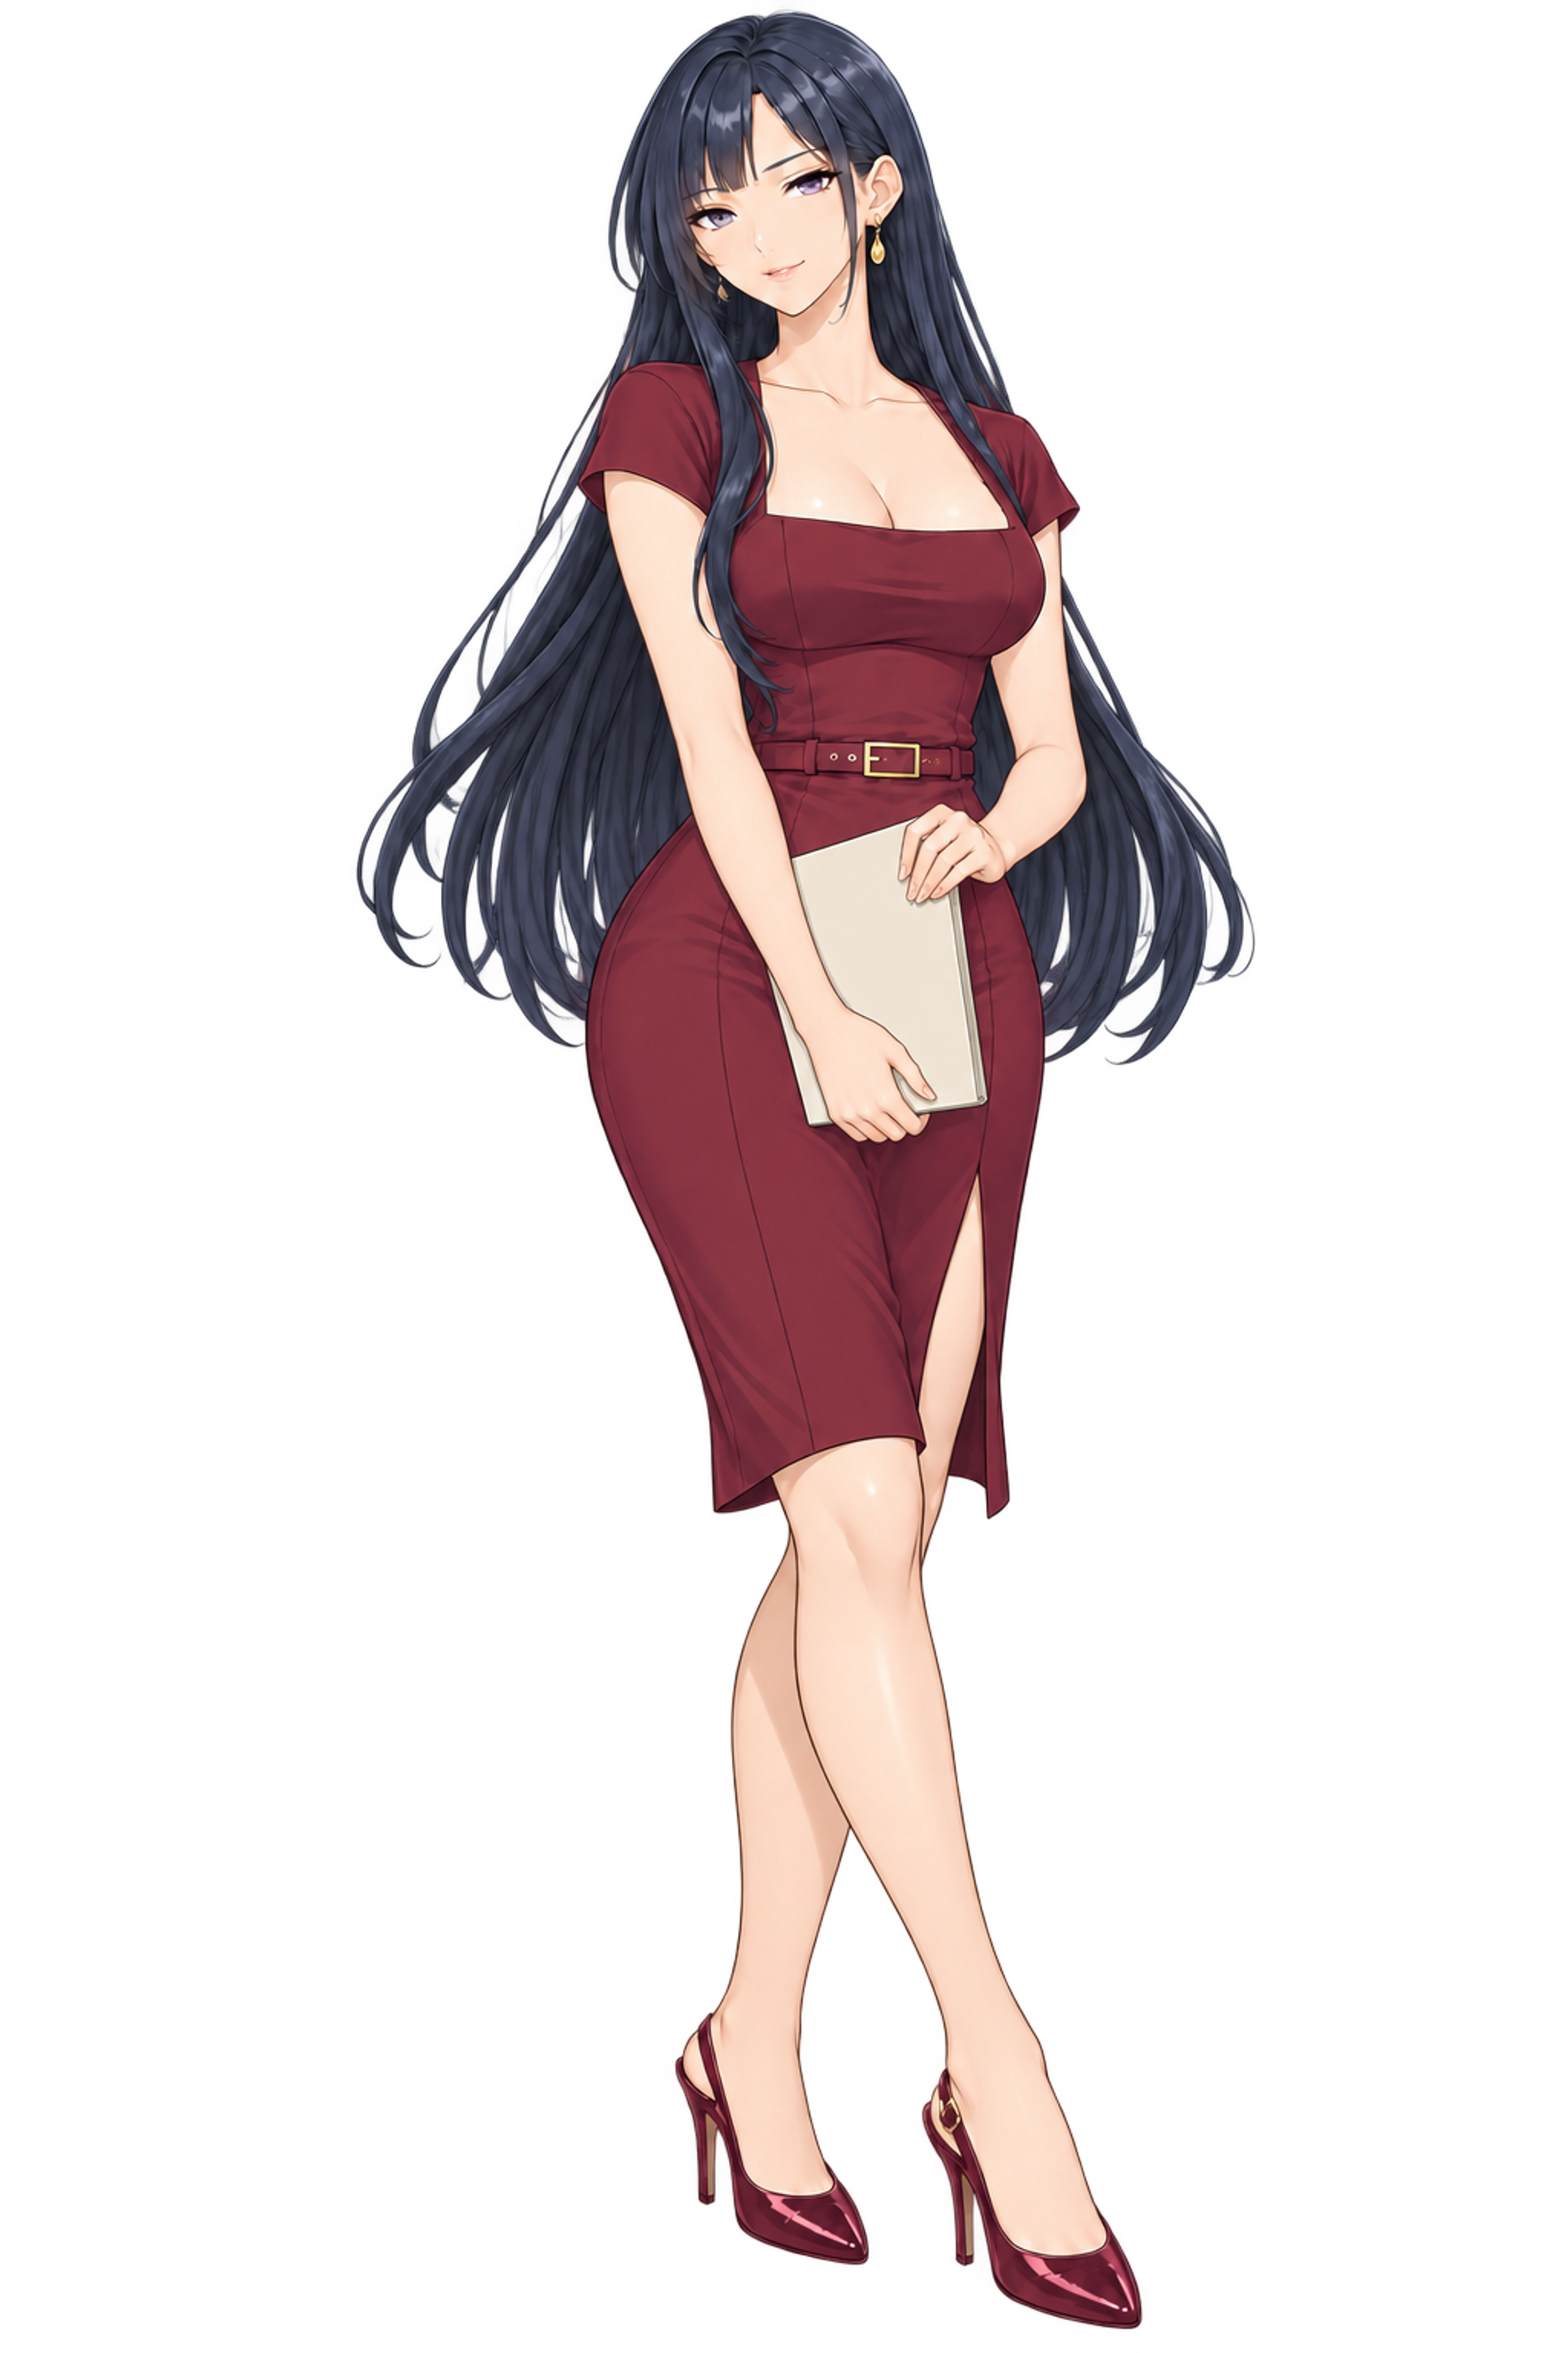
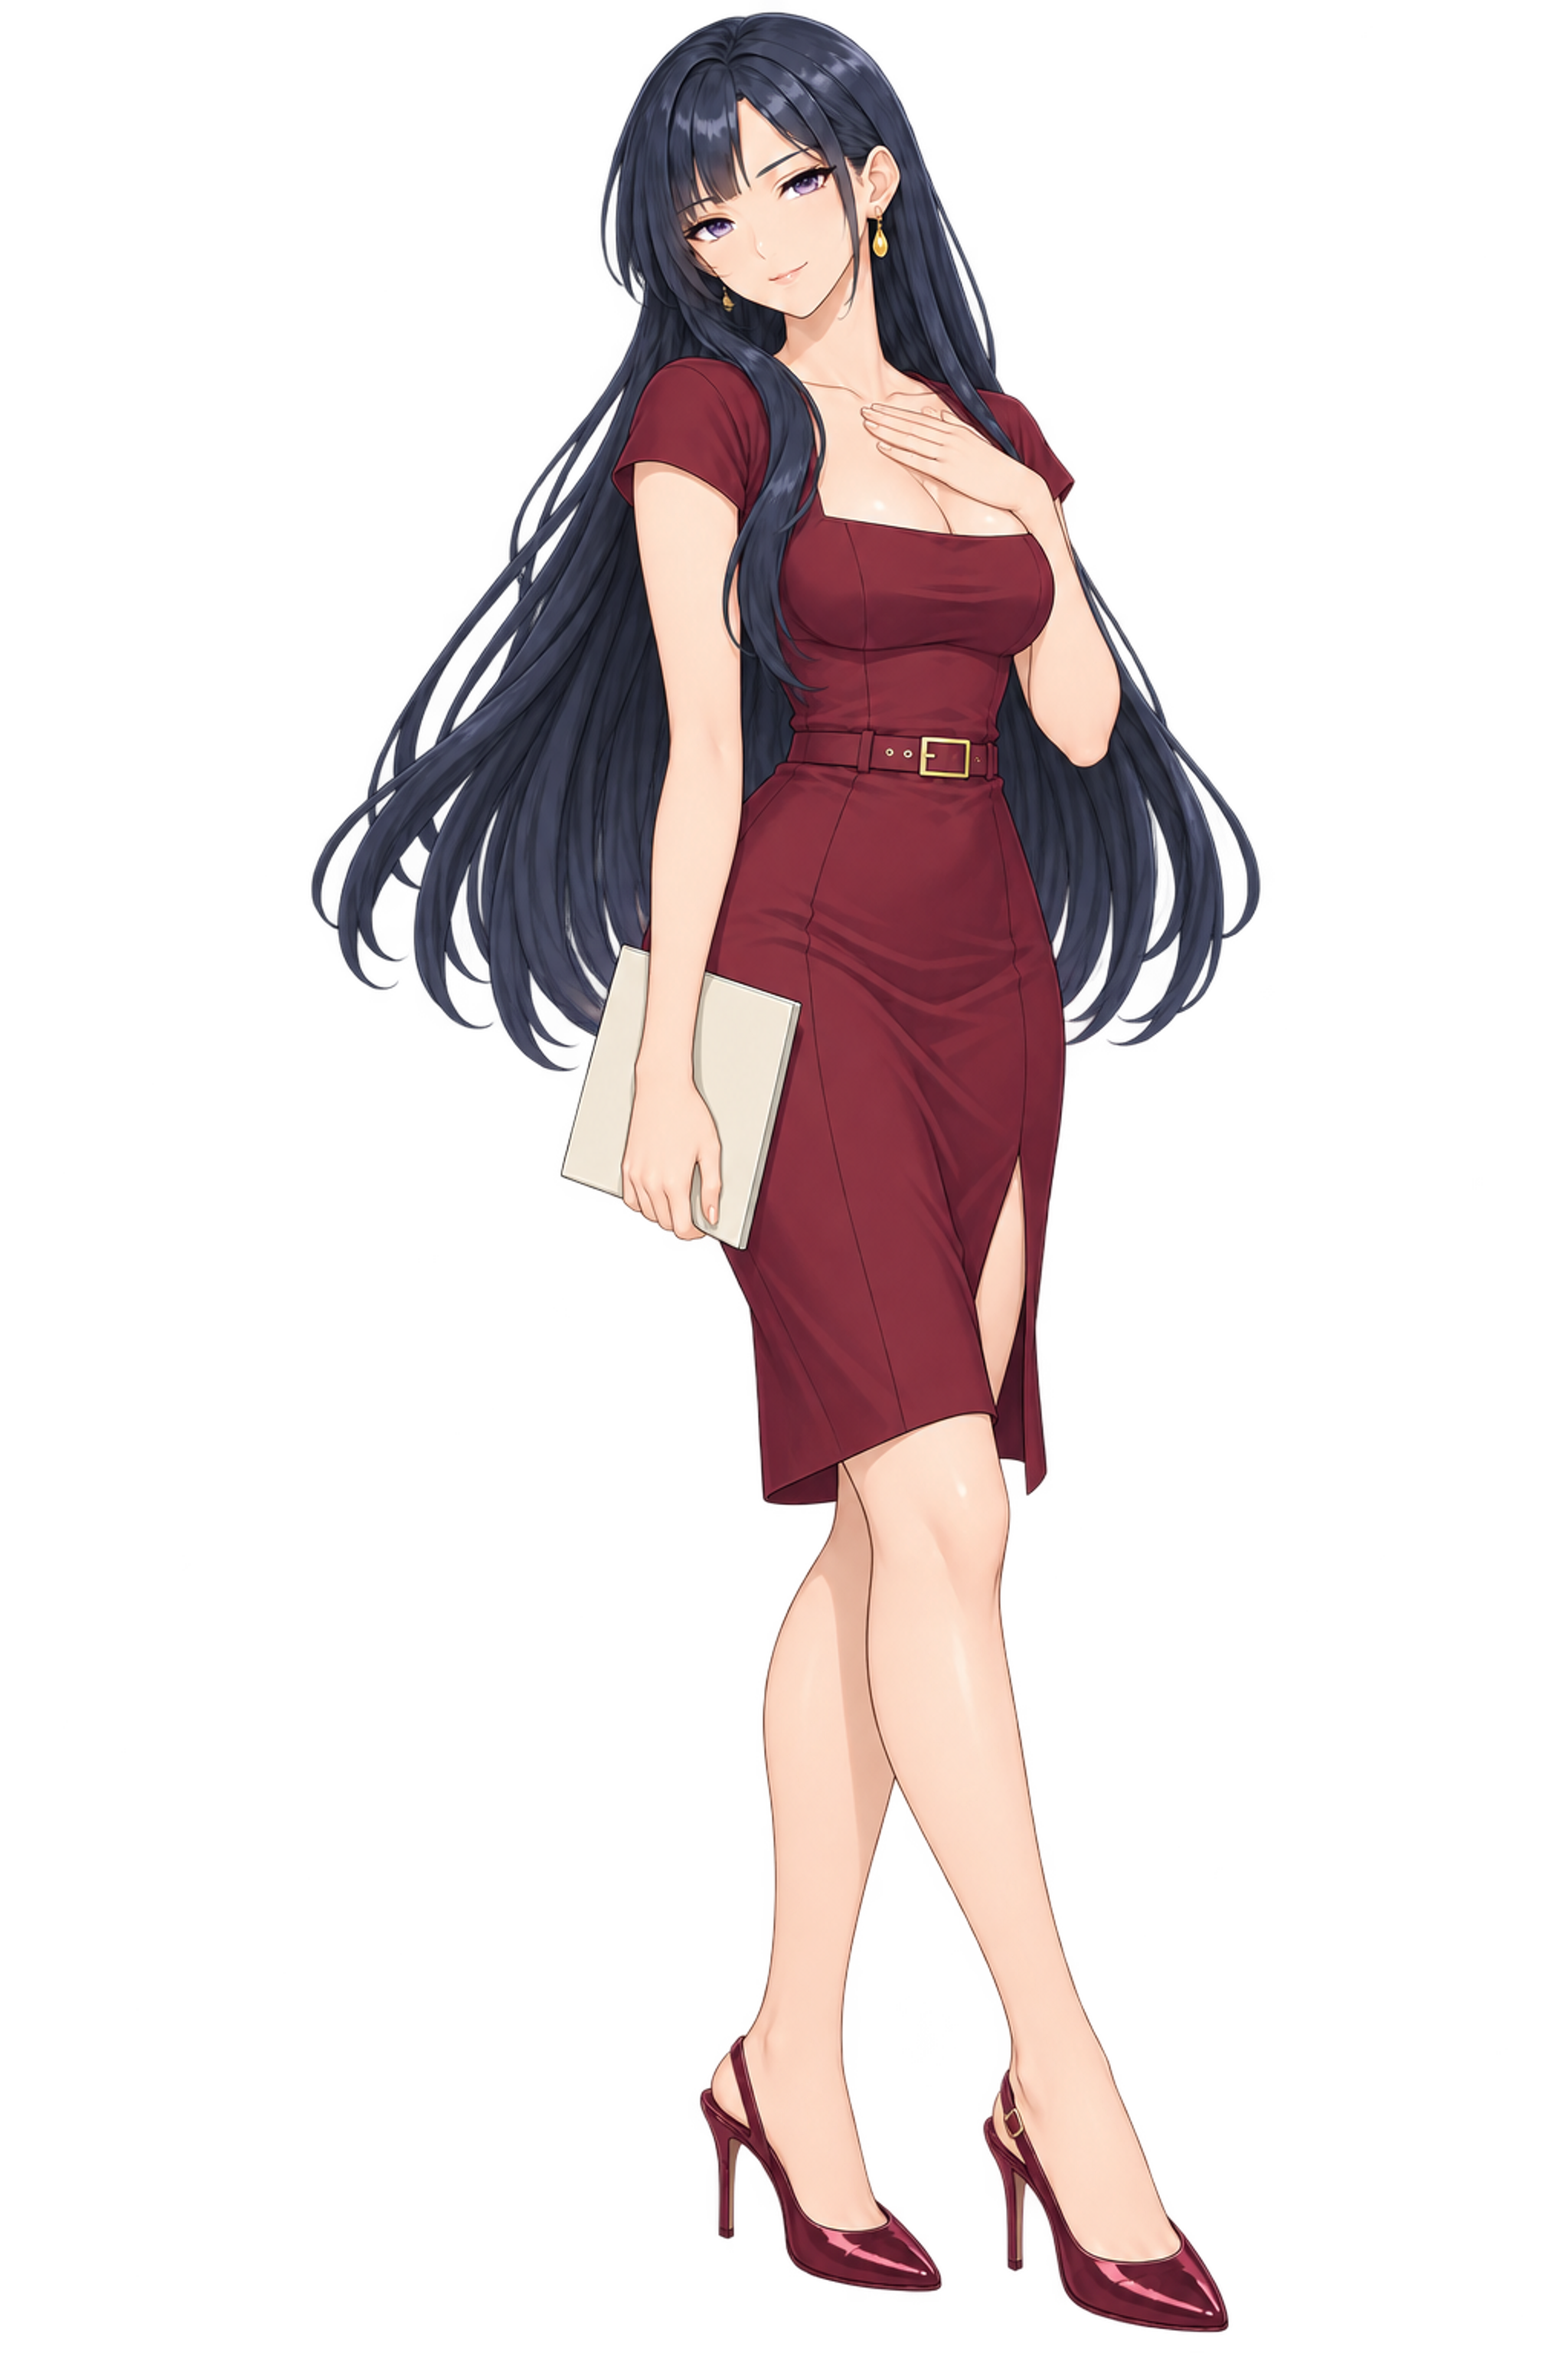
Differentiate listening pose silhouettes for Seoyun, Yujin and Jihyun

Changed region(s): [[0.1875, 0.0, 0.8125, 1.0]]

diff --git a/히로인/이미지목록.md b/히로인/이미지목록.md
@@ -1,6 +1,6 @@
 # 이미지 전체 목록
 
-총 108개. [인물별 미리보기](README.md)
+총 109개. [인물별 미리보기](README.md)
 
 ## 한서윤 · 22개
 
@@ -18,7 +18,7 @@
 |[한서윤/사복/원화/일상_A.png](한서윤/사복/원화/일상_A.png)|1024×1535|0.79 MB|
 |[한서윤/사복/원화/일상_B.png](한서윤/사복/원화/일상_B.png)|1024×1536|1.93 MB|
 |[한서윤/사복/포즈예시.png](한서윤/사복/포즈예시.png)|1024×1535|0.79 MB|
-|[한서윤/포즈/듣는자세.png](한서윤/포즈/듣는자세.png)|2048×3070|3.00 MB|
+|[한서윤/포즈/듣는자세.png](한서윤/포즈/듣는자세.png)|2048×3072|2.72 MB|
 |[한서윤/포즈/업무.png](한서윤/포즈/업무.png)|2048×3070|2.87 MB|
 |[한서윤/포즈/캐주얼.png](한서윤/포즈/캐주얼.png)|2048×3070|1.93 MB|
 |[한서윤/표정/업무_default.png](한서윤/표정/업무_default.png)|2048×3070|2.87 MB|
@@ -76,7 +76,7 @@
 |[차유진/사복/원화/일상_A.png](차유진/사복/원화/일상_A.png)|1024×1536|1.45 MB|
 |[차유진/사복/원화/일상_B.png](차유진/사복/원화/일상_B.png)|1024×1536|1.40 MB|
 |[차유진/사복/포즈예시.png](차유진/사복/포즈예시.png)|1024×1536|1.45 MB|
-|[차유진/포즈/듣는자세.png](차유진/포즈/듣는자세.png)|2048×3072|2.96 MB|
+|[차유진/포즈/듣는자세.png](차유진/포즈/듣는자세.png)|2048×3072|3.11 MB|
 |[차유진/포즈/업무.png](차유진/포즈/업무.png)|2048×3072|4.44 MB|
 |[차유진/포즈/캐주얼.png](차유진/포즈/캐주얼.png)|2048×3072|3.33 MB|
 |[차유진/표정/업무_default.png](차유진/표정/업무_default.png)|2048×3072|4.44 MB|
@@ -104,7 +104,7 @@
 |[백지현/사복/원화/일상_A.png](백지현/사복/원화/일상_A.png)|1024×1536|1.37 MB|
 |[백지현/사복/원화/일상_B.png](백지현/사복/원화/일상_B.png)|1024×1536|1.45 MB|
 |[백지현/사복/포즈예시.png](백지현/사복/포즈예시.png)|1024×1536|1.37 MB|
-|[백지현/포즈/듣는자세.png](백지현/포즈/듣는자세.png)|2048×3072|2.44 MB|
+|[백지현/포즈/듣는자세.png](백지현/포즈/듣는자세.png)|2048×3072|2.22 MB|
 |[백지현/포즈/업무.png](백지현/포즈/업무.png)|2048×3072|3.52 MB|
 |[백지현/포즈/캐주얼.png](백지현/포즈/캐주얼.png)|2048×3072|4.02 MB|
 |[백지현/표정/업무_default.png](백지현/표정/업무_default.png)|2048×3072|3.52 MB|
@@ -115,7 +115,7 @@
 |[백지현/표정/MASTER_serious.png](백지현/표정/MASTER_serious.png)|2048×3072|3.55 MB|
 |[백지현/MASTER.png](백지현/MASTER.png)|1024×1536|1.58 MB|
 
-## 공통검수자료 · 15개
+## 공통검수자료 · 16개
 
 |파일|해상도|크기|
 |---|---|---:|
@@ -126,8 +126,9 @@
 |[공통검수자료/귀걸이표정/MASTER_귀걸이_완료비교.jpg](공통검수자료/귀걸이표정/MASTER_귀걸이_완료비교.jpg)|1200×1300|0.29 MB|
 |[공통검수자료/귀걸이표정/MASTER_귀수정_전후.jpg](공통검수자료/귀걸이표정/MASTER_귀수정_전후.jpg)|1120×920|0.21 MB|
 |[공통검수자료/듣는자세_귀검수_20261008/귀_최종확대.jpg](공통검수자료/듣는자세_귀검수_20261008/귀_최종확대.jpg)|1200×1300|0.29 MB|
-|[공통검수자료/듣는자세_귀검수_20261008/듣는자세_3인.jpg](공통검수자료/듣는자세_귀검수_20261008/듣는자세_3인.jpg)|1350×780|0.15 MB|
-|[공통검수자료/듣는자세_귀검수_20261008/얼굴_귀_손_확대.jpg](공통검수자료/듣는자세_귀검수_20261008/얼굴_귀_손_확대.jpg)|1300×1800|0.40 MB|
+|[공통검수자료/듣는자세_귀검수_20261008/듣는자세_3인.jpg](공통검수자료/듣는자세_귀검수_20261008/듣는자세_3인.jpg)|1350×780|0.14 MB|
+|[공통검수자료/듣는자세_귀검수_20261008/얼굴_귀_손_확대.jpg](공통검수자료/듣는자세_귀검수_20261008/얼굴_귀_손_확대.jpg)|1300×1800|0.45 MB|
+|[공통검수자료/듣는자세_귀검수_20261008/포즈_구분비교.jpg](공통검수자료/듣는자세_귀검수_20261008/포즈_구분비교.jpg)|1200×1950|0.38 MB|
 |[공통검수자료/손손톱/수정후_전신9포즈.jpg](공통검수자료/손손톱/수정후_전신9포즈.jpg)|1200×1965|0.34 MB|
 |[공통검수자료/포즈/최종_손확대_1.jpg](공통검수자료/포즈/최종_손확대_1.jpg)|900×2820|0.43 MB|
 |[공통검수자료/포즈/최종_손확대_2.jpg](공통검수자료/포즈/최종_손확대_2.jpg)|900×2820|0.41 MB|

diff --git a/히로인/공통검수자료/듣는자세_귀검수_20261008/README.md b/히로인/공통검수자료/듣는자세_귀검수_20261008/README.md
@@ -6,11 +6,13 @@
 
 ## 새 듣는 자세
 
-- 서윤: 태블릿을 옆에 들고 다른 팔은 편안하게 내린 자세. 자유로운 손의 벌어진 손끝은 추가 편집했습니다. 맨 귓불 유지.
-- 유진: 폴더를 허리 아래에서 양손으로 가볍게 받친 자세. 금색 물방울 귀걸이 유지.
-- 지현: 양손을 허리 앞에 부드럽게 얹은 자세. 작은 둥근 진주 스터드.
+업무·캐주얼과 구별되도록 상체 방향과 팔 구도를 다시 제작한 2차 최종본입니다. [세 포즈 나란히 비교](포즈_구분비교.jpg)
 
-기존 얼굴 특징·머리·복장·비율을 참조하여 생성했고, 최종 저장본의 얼굴·손가락·손톱·귀를 확대 확인했습니다. 밝은 배경과 어두운 배경에서 투명 경계를 확인했습니다. 생성 원본은 1024×1535 또는 1024×1536이며, 기존 포즈와 크기를 맞추기 위해 균일한 2배 보간으로 2048×3070/3072에 저장했습니다. 별도 AI 업스케일은 하지 않았습니다.
+- 서윤: 몸을 돌리고 태블릿을 옆구리에 끼워 팔을 구부린 자세. 맨 귓불 유지.
+- 유진: 폴더를 몸 옆으로 내리고 다른 손을 가슴 위에 가볍게 얹은 자세. 금색 물방울 귀걸이 유지.
+- 지현: 팔을 등 뒤에 두고 상체 방향을 바꾼 자세. 손은 몸 뒤에 가려져 보이지 않습니다. 작은 둥근 진주 스터드.
+
+기존 얼굴 특징·머리·복장·비율을 참조하여 생성했고, 최종 저장본의 얼굴·손가락·손톱·귀를 확대 확인했습니다. 밝은 배경과 어두운 배경에서 투명 경계를 확인했습니다. 생성 원본은 1024×1536이며, 기존 포즈와 크기를 맞추기 위해 균일한 2배 보간으로 2048×3072에 저장했습니다. 별도 AI 업스케일은 하지 않았습니다.
 
 ## 기존 귀 검수
 

diff --git a/히로인/README.md b/히로인/README.md
@@ -1,6 +1,6 @@
 # 히로인 이미지
 
-**이미지 108개 · PNG 80개 / JPG 28개**
+**이미지 109개 · PNG 80개 / JPG 29개**
 
 인물 이름을 누르면 해당 인물의 MASTER·포즈·표정·사복을 한 페이지에서 볼 수 있습니다.
 
@@ -18,7 +18,7 @@
 |[강리아](강리아/README.md)|25|MASTER · 포즈 · 표정 · 사복 · 검수|
 |[차유진](차유진/README.md)|23|MASTER · 포즈 · 표정 · 사복 · 검수|
 |[백지현](백지현/README.md)|23|MASTER · 포즈 · 표정 · 사복 · 검수|
-|[공통검수자료](공통검수자료/README.md)|15|여러 인물이 함께 나온 확대·검수 이미지 및 제작 기록|
+|[공통검수자료](공통검수자료/README.md)|16|여러 인물이 함께 나온 확대·검수 이미지 및 제작 기록|
 
 ## 각 인물 안의 구성
 

diff --git a/README.md b/README.md
@@ -5,7 +5,7 @@
 | 찾는 것 | 위치 |
 |---|---|
 | 게임 코드와 실제 실행 이미지 | RenPy_게임/game |
-| MASTER·포즈·표정·사복 이미지 108개 | [히로인 안내](히로인/README.md) |
+| MASTER·포즈·표정·사복 이미지 109개 | [히로인 안내](히로인/README.md) |
 | 캐릭터·스토리·시스템 기획 | [기획문서 목차](기획문서_v1/README.md) |
 | 배경·메신저 프로필·보존 원화·Live2D 준비 자료 | [원본자료 안내](원본자료/README.md) |
 | 예전 시안·생성 후보·수정 과정·옛 미리보기 | [보관자료 안내](보관자료/README.md) |
